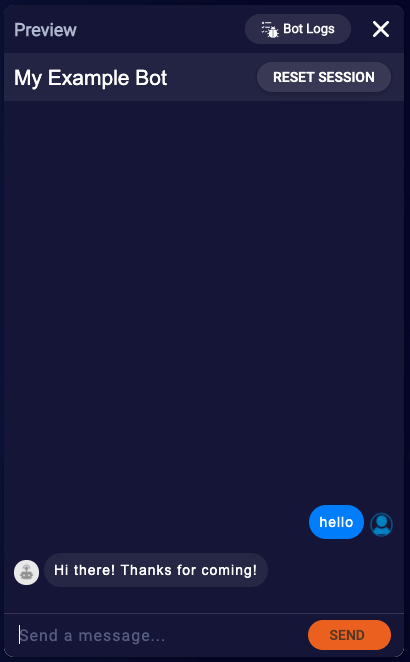
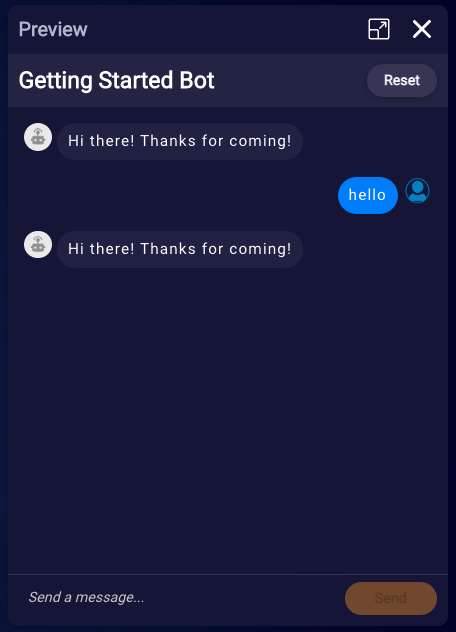
More tutorial updates

diff --git a/pages/Documents/ConversationalAI/Tutorials&Guides/GettingStartedWithBotBuilding/dialogs-patterns.md b/pages/Documents/ConversationalAI/Tutorials&Guides/GettingStartedWithBotBuilding/dialogs-patterns.md
@@ -53,7 +53,7 @@ Let’s see the interactions in action!
 
 2. In the Preview window, enter “hello” or “hello there,” and click **Send**. You should see the welcome response.
 
-    <img class="fancyimage" style="width:350px" src="img/ConvoBuilder/getstartedtutorial/preview.png">
+    <img class="fancyimage" style="width:400px" src="img/ConvoBuilder/getstartedtutorial/preview.png">
 
     So how is the Welcome dialog triggered?
 
@@ -72,7 +72,7 @@ Let’s see the interactions in action!
 
     <img class="fancyimage" style="width:700px" src="img/ConvoBuilder/getstartedtutorial/patterns_intent.png">
 
-5. In the Preview window, click **Reset Session**. This starts a new session that "picks up" your changes.
+5. In the Preview window, click **Reset**. This starts a new session that "picks up" your changes.
 
 6. Test the new patterns in the Preview window like you did before.
 
@@ -123,7 +123,7 @@ Let’s create another dialog to put these concepts into more practice. Since th
 
     Let's test the changes.
 
-8. Open the Preview window again, and click **Reset Session**.
+8. Open the Preview window again, and click **Reset**.
 
 9. Enter “hi” to trigger the Welcome dialog and see the welcome message. Then enter “goodbye” to trigger the Goodbye dialog and see the goodbye message.
 

diff --git a/pages/Documents/ConversationalAI/Tutorials&Guides/GettingStartedWithBotBuilding/intents.md b/pages/Documents/ConversationalAI/Tutorials&Guides/GettingStartedWithBotBuilding/intents.md
@@ -139,7 +139,7 @@ Now you can begin to build out the Make Payment dialog.
 
     Now let's see the dialog in action.
 
-8. Open the Preview window, and start a new session by clicking **Reset Session**.
+8. Open the Preview window, and start a new session by clicking **Reset**.
 9. Enter an utterance that should match the Make Payment intent, like, "Can you help me to make a payment?" You should see the Make Payment dialog's flow and the multiple choice question. Tap or enter “Yes” or “No” and see what response you get.
 
     <img class="fancyimage" style="width:400px" src="img/ConvoBuilder/getstartedtutorial/intents_preview.png">
